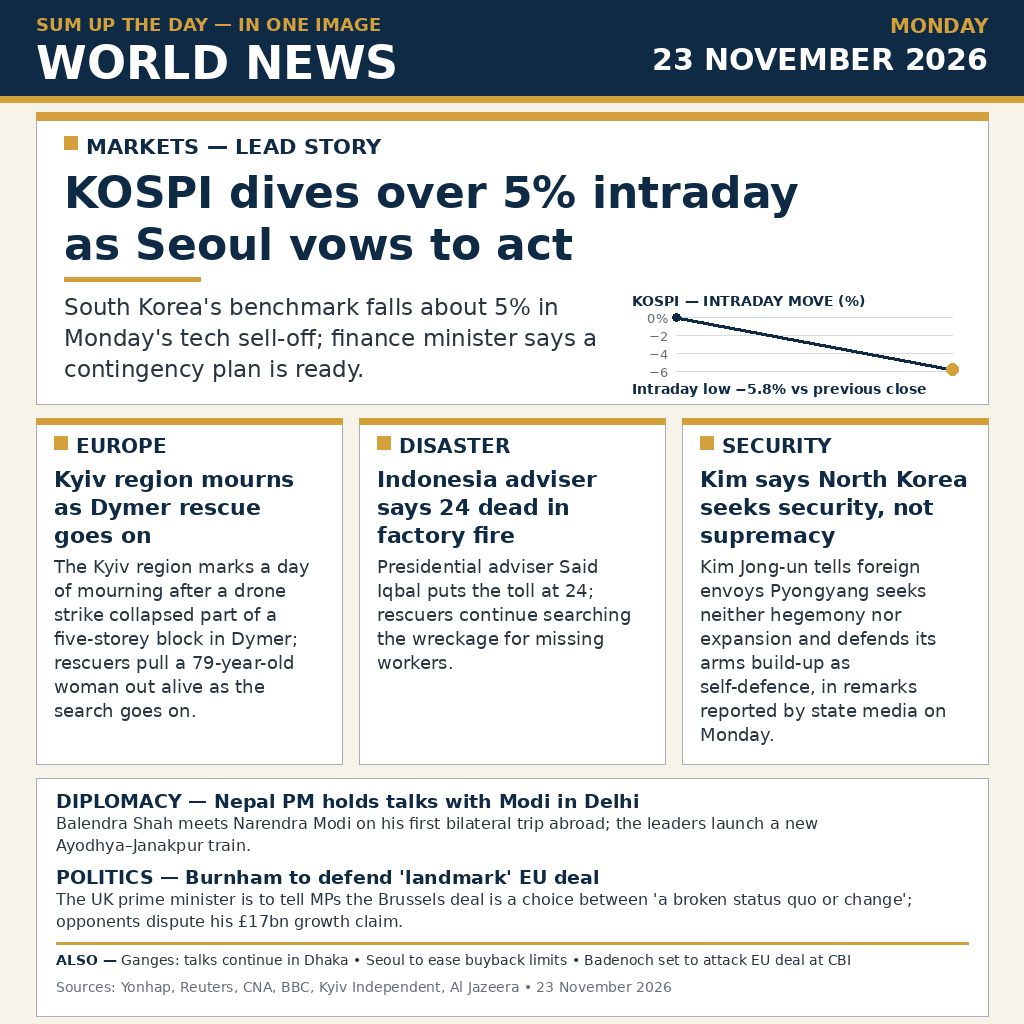
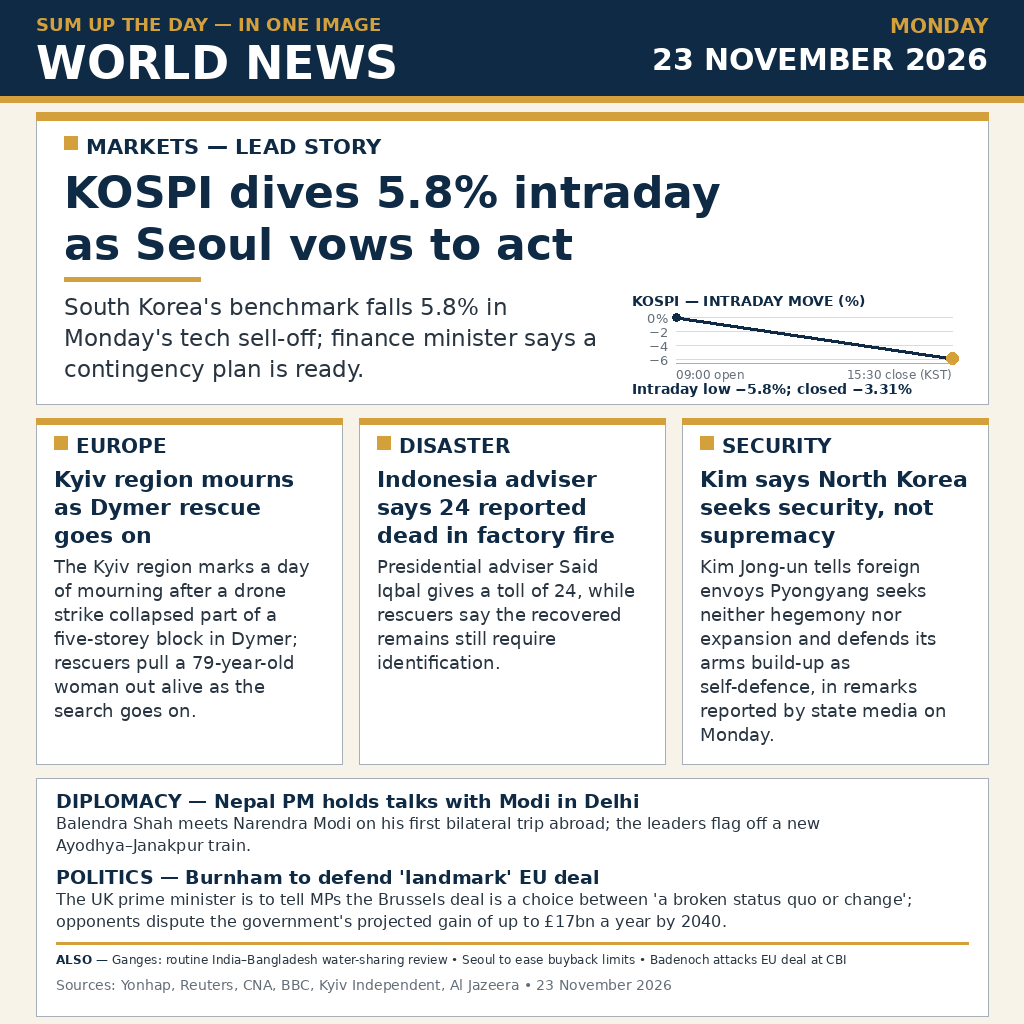
news-image-20261123 v7.2: final-audit copy fixes (KOSPI 5.8%, 24 reported, GBP up-to, flag off)

diff --git a/build_entry.py b/build_entry.py
@@ -121,7 +121,7 @@ def main():
     y = label(d, 64, 134, "MARKETS — LEAD STORY", size=21)
     # Headline, two fixed lines, biggest type on the page.
     f_head = font(True, 44)
-    d.text((64, y + 6), "KOSPI dives over 5% intraday",
+    d.text((64, y + 6), "KOSPI dives 5.8% intraday",
            font=f_head, fill=NAVY)
     d.text((64, y + 58), "as Seoul vows to act",
            font=f_head, fill=NAVY)
@@ -129,7 +129,7 @@ def main():
 
     split_y = y + 132
     # Body, left of the chart.
-    body = ("South Korea's benchmark falls about 5% in Monday's "
+    body = ("South Korea's benchmark falls 5.8% in Monday's "
             "tech sell-off; finance minister says a contingency "
             "plan is ready.")
     f_body = font(False, 23)
@@ -143,7 +143,7 @@ def main():
     cx0, cx1 = 632, 960
     d.text((cx0, split_y), "KOSPI — INTRADAY MOVE (%)",
            font=font(True, 14), fill=NAVY)
-    plot_top, plot_bot = split_y + 20, split_y + 82
+    plot_top, plot_bot = split_y + 20, split_y + 70
     plot_x0, plot_x1 = 676, 952
 
     def py(v):
@@ -161,10 +161,20 @@ def main():
     d.ellipse([plot_x0 - 4, int(round(py(0))) - 4,
                plot_x0 + 4, int(round(py(0))) + 4], fill=NAVY)
     d.ellipse([ex - 6, ey - 6, ex + 6, ey + 6], fill=GOLD)
-    d.text((cx0, plot_bot + 6),
-           "Intraday low −5.8% vs previous close",
+    # Time axis: open/close endpoints only (KST). The time of the
+    # intraday low is not marked — it is not a verified data point.
+    d.line([(plot_x0, plot_bot), (plot_x1, plot_bot)],
+           fill=OUTLINE, width=1)
+    f_axis = font(False, 12)
+    d.text((plot_x0, plot_bot + 4), "09:00 open",
+           font=f_axis, fill=MUTED)
+    close_lab = "15:30 close (KST)"
+    d.text((plot_x1 - text_w(f_axis, close_lab), plot_bot + 4),
+           close_lab, font=f_axis, fill=MUTED)
+    d.text((cx0, plot_bot + 18),
+           "Intraday low −5.8%; closed −3.31%",
            font=font(True, 14), fill=NAVY)
-    assert plot_bot + 6 + 14 <= LY1 - 8
+    assert plot_bot + 18 + 14 <= LY1 - 8
 
     # ---- Secondary stories: EUROPE / DISASTER / SECURITY ----------------
     SY0, SY1 = 418, 764
@@ -173,9 +183,10 @@ def main():
          "The Kyiv region marks a day of mourning after a drone strike "
          "collapsed part of a five-storey block in Dymer; rescuers pull "
          "a 79-year-old woman out alive as the search goes on."),
-        ("DISASTER", "Indonesia adviser says 24 dead in factory fire",
-         "Presidential adviser Said Iqbal puts the toll at 24; rescuers "
-         "continue searching the wreckage for missing workers."),
+        ("DISASTER", "Indonesia adviser says 24 reported dead in factory fire",
+         "Presidential adviser Said Iqbal gives a toll of 24, while "
+         "rescuers say the recovered remains still require "
+         "identification."),
         ("SECURITY", "Kim says North Korea seeks security, not supremacy",
          "Kim Jong-un tells foreign envoys Pyongyang seeks neither "
          "hegemony nor expansion and defends its arms build-up as "
@@ -206,7 +217,7 @@ def main():
     y += 24
     f_sb = font(False, 16)
     lines = wrap("Balendra Shah meets Narendra Modi on his first bilateral "
-                 "trip abroad; the leaders launch a new Ayodhya–Janakpur "
+                 "trip abroad; the leaders flag off a new Ayodhya–Janakpur "
                  "train.", f_sb, 912)
     assert len(lines) <= 2, lines
     y = draw_lines(d, 56, y, lines, f_sb, INK, 22)
@@ -216,23 +227,24 @@ def main():
     y += 24
     lines = wrap("The UK prime minister is to tell MPs the Brussels deal "
                  "is a choice between 'a broken status quo or change'; "
-                 "opponents dispute his £17bn growth claim.", f_sb, 912)
+                 "opponents dispute the government's projected gain of up "
+                 "to £17bn a year by 2040.", f_sb, 912)
     assert len(lines) <= 2, lines
     y = draw_lines(d, 56, y, lines, f_sb, INK, 22)
     y += 8
     d.rectangle([56, y, 968, y + 2], fill=GOLD)
     y += 10
-    f_al = font(True, 14)
-    f_ar = font(False, 14)
+    f_al = font(True, 12)
+    f_ar = font(False, 12)
     lab = "ALSO — "
     lab_w = text_w(f_al, lab)
     also_lines = wrap_first_narrow(
-        "Ganges: talks continue in Dhaka • Seoul to ease buyback limits • "
-        "Badenoch set to attack EU deal at CBI",
+        "Ganges: routine India–Bangladesh water-sharing review • Seoul "
+        "to ease buyback limits • Badenoch attacks EU deal at CBI",
         f_ar, 912 - lab_w, 912)
-    assert len(also_lines) <= 2, also_lines
+    assert len(also_lines) <= 1, also_lines
     d.text((56, y), lab, font=f_al, fill=NAVY)
-    y = draw_lines(d, 56 + lab_w, y, also_lines, f_ar, INK, 19)
+    y = draw_lines(d, 56 + lab_w, y, also_lines, f_ar, INK, 17)
     y += 8
     d.text((56, y),
            "Sources: Yonhap, Reuters, CNA, BBC, Kyiv Independent, "
